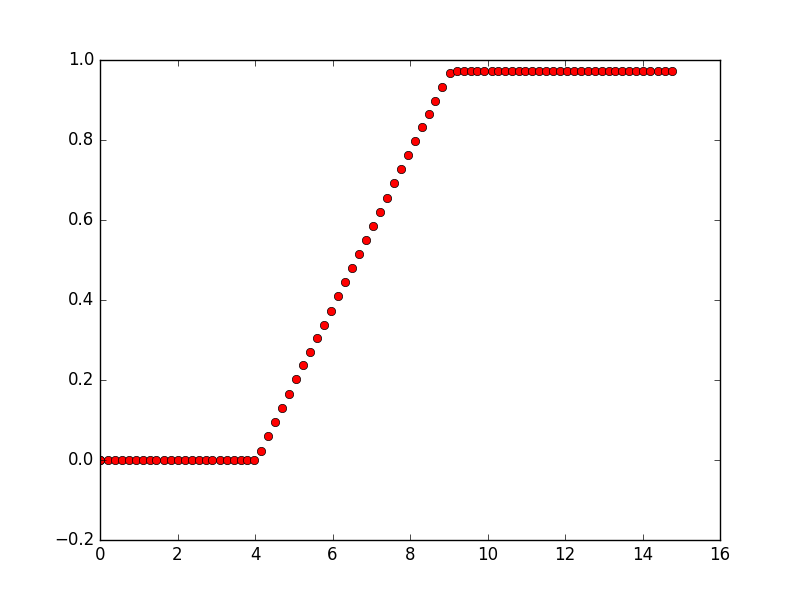
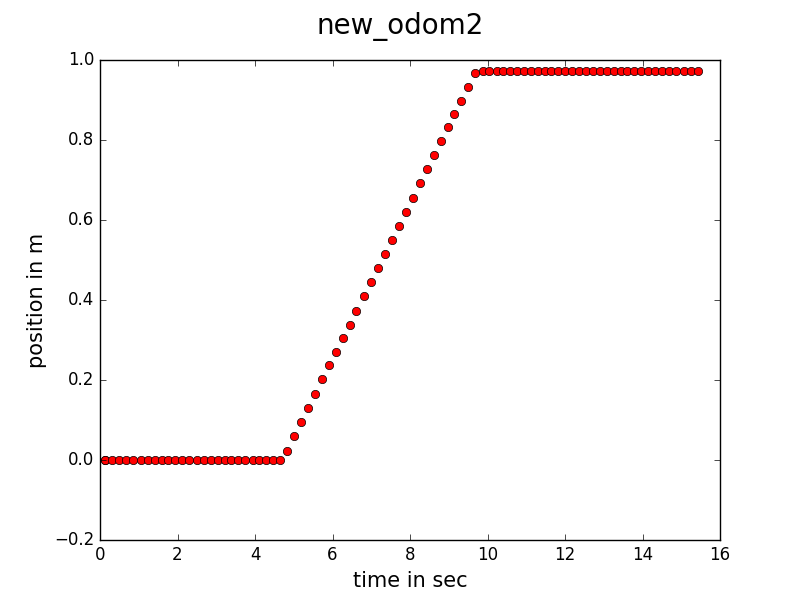
updated

diff --git a/kalman_fil.py b/kalman_fil.py
@@ -86,8 +86,9 @@ class Run:
         H = np.array([[1]])                 # world frame transformation
         a = Kalman(F, B, H, Q, R, self.uncert, self.pos)    # initialize 
         a.predict(self.vel)                 # predict with vel of 'u'm/s
-        a.correct(self.scan)                # predict with sense of 'z'm moved
+        a.correct(abs(self.scan))                # predict with sense of 'z'm moved
         self.uncert = a.P
+        print(self.scan)
         self.pos = a.x[0][0]
 
         pose_msg = PoseWithCovarianceStamped()
@@ -100,7 +101,7 @@ class Run:
         rate.sleep()
 
         # append points for plotting later
-        self.vel_scan_pts.append(((self.t - self.start_time), self.pos))
+        self.vel_scan_pts.append(((self.t - self.start_time), abs(self.pos)))
  
 class SubAndPlot:
     def __init__(self):
@@ -148,6 +149,9 @@ class SubAndPlot:
 
     def plot(self, pts, figname):
         fig = plt.figure()
+        fig.suptitle(figname, fontsize=20)
+        plt.xlabel("time in sec", fontsize=15)
+        plt.ylabel("position in m", fontsize=15)
         plt.plot([pts[0][0]], [pts[0][1]], 'ro', label=figname)
         for i in pts:
             plt.plot([i[0]],[i[1]], 'ro')
@@ -161,6 +165,6 @@ if __name__ == '__main__':
     rospy.sleep(18)
 #    print(b.scan_pose_pts)
 #    print(a.vel_scan_pts)
-#    b.plot(b.odom_pts, "new_odom2")
+    b.plot(b.odom_pts, "new_odom2")
     b.plot(b.scan_pose_pts, "new_scan_pose")
-#    b.plot(a.vel_scan_pts, "new_vel_scan")
+    b.plot(a.vel_scan_pts, "new_vel_scan")
